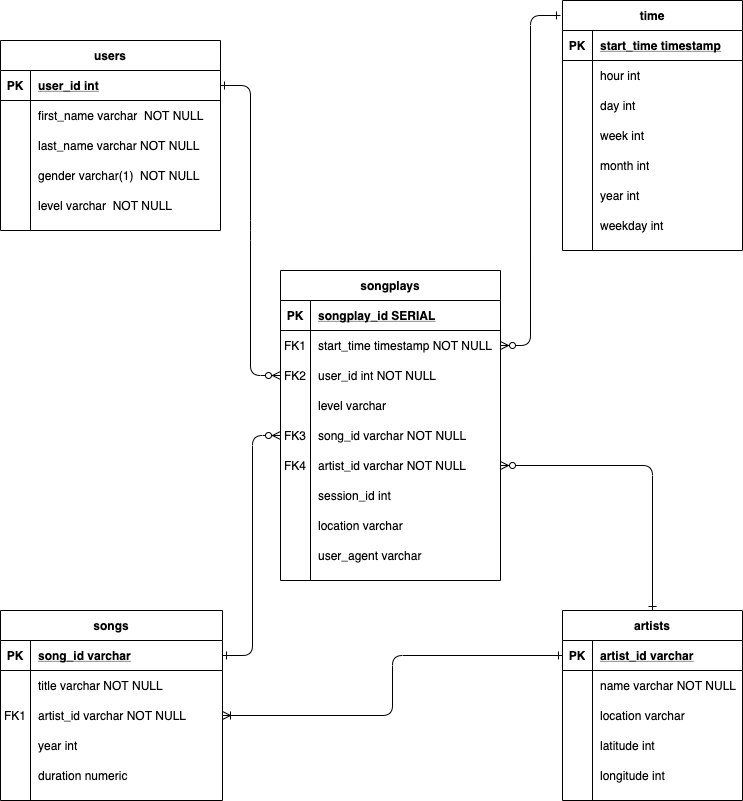
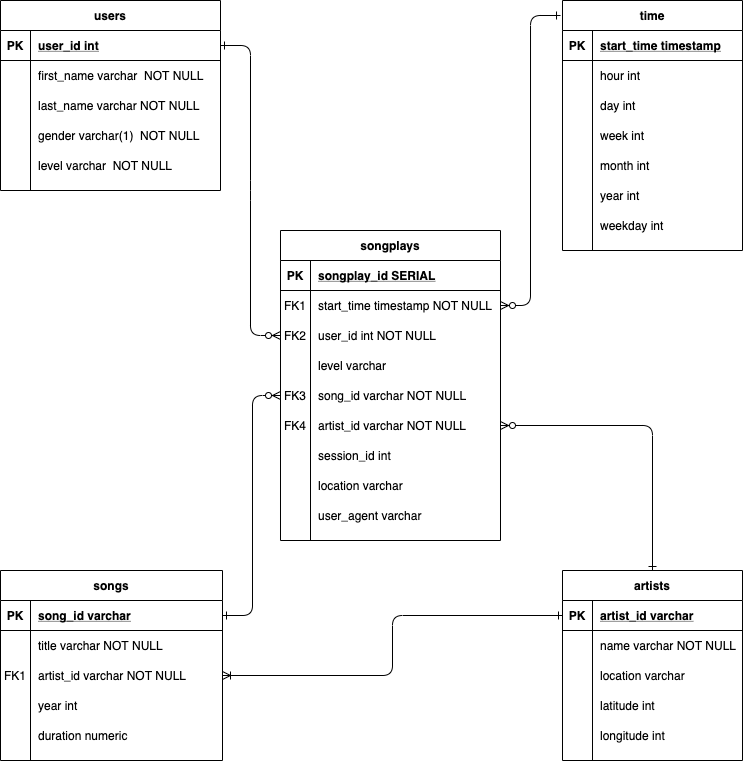
add er diagram

diff --git a/README.md b/README.md
@@ -8,6 +8,10 @@ For this purpose a relational database and its schema should be created and an E
 We use a star schema which is optimized for queries on the song play analysis. For the data consistency we define constraints such as foreign keys or not null values. We use python programming language to implement the automated database creation and the running of ETL process / pipeline. There are two types of JSON files containing song data (artist and song data) and song play data (song plays and user information). We use jupyter lab for development of our ETL pipeline and transfer later the code to the python source file.
 
 We use Docker to create the necessary infrastructure for database, jupyter lab and a tool for managing database content. 
+
+## ER Diagramm
+
+![ER Diagramm](https://github.com/euweb/DataModelingWithPostgres/blob/main/DataModelingWithPostgres.png?raw=true)
  
 ## Running using Docker
 
@@ -50,3 +54,4 @@ If postgres and python are installed localy, you can run this project without do
 | README.md                 	| this documenation                                              	|
 | sql_queries.py            	| python file with sql queries for create tables and ets scripts 	|
 | test.ipyng                	| notebook dumping first 5 rows of each sql tables               	|
+
